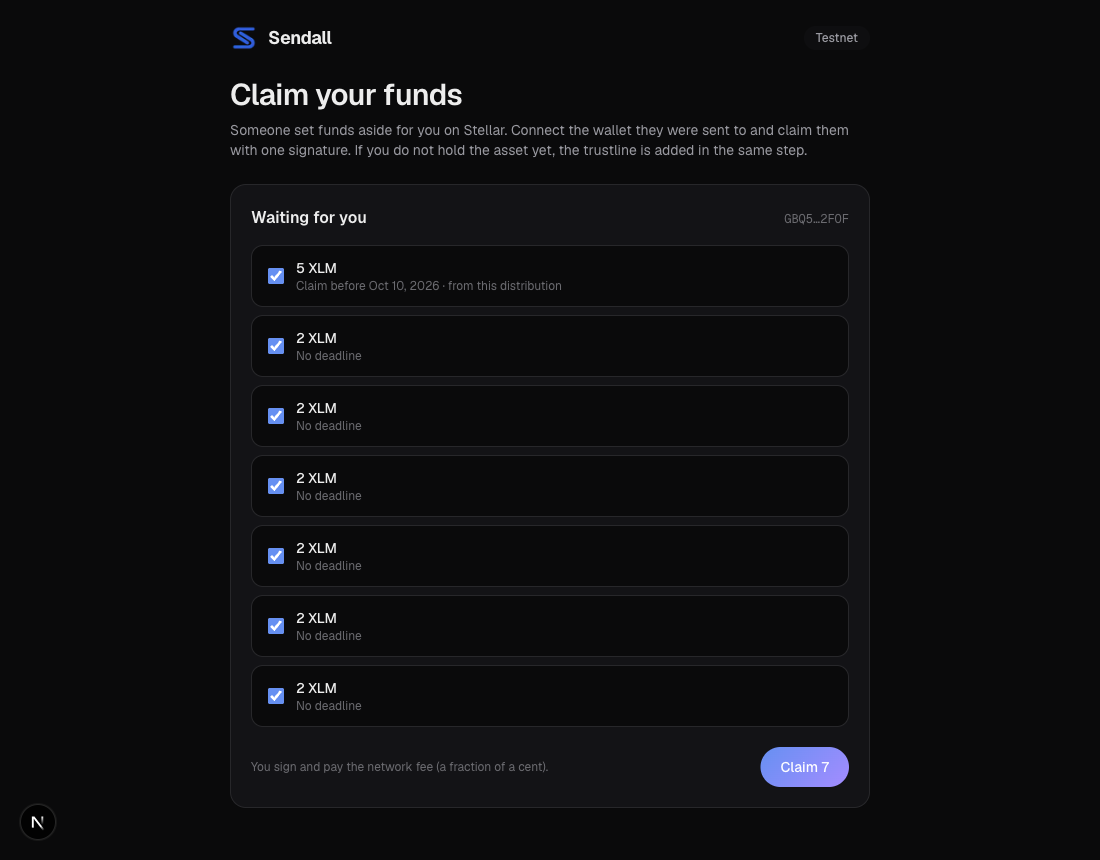
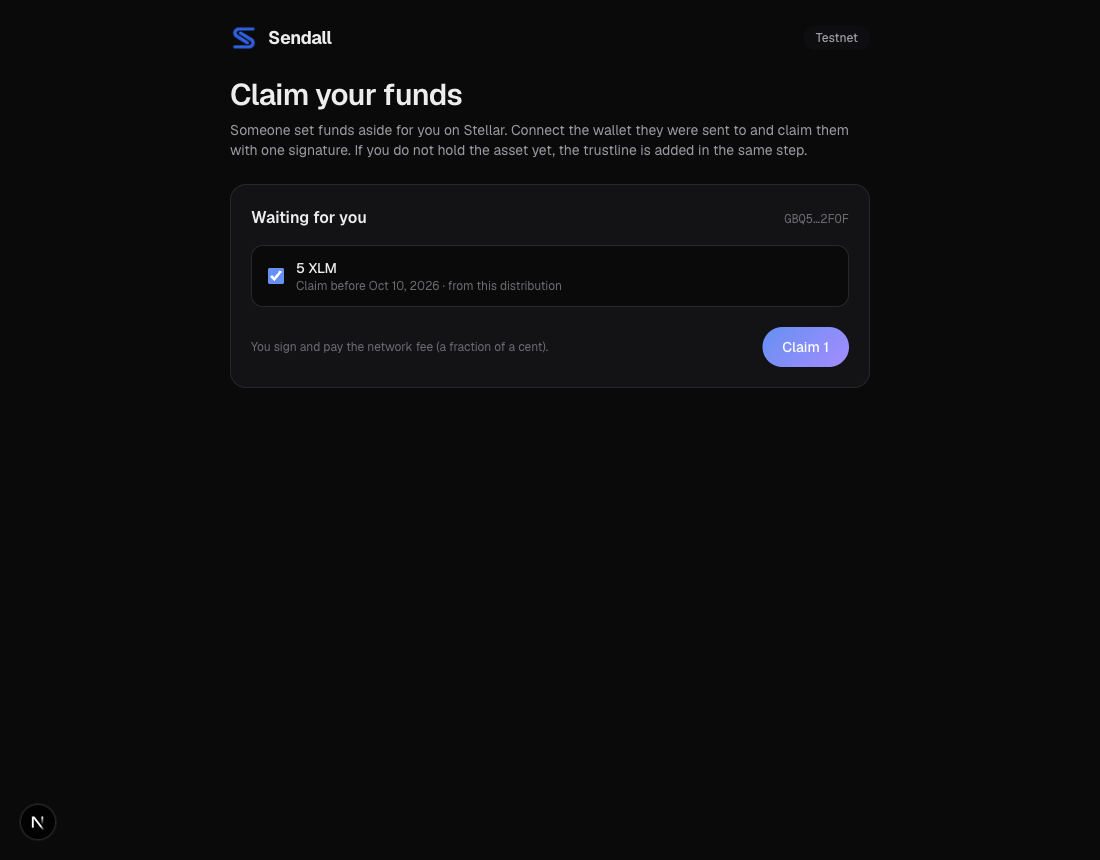
feat: sign for the batch's network and block a wallet on the wrong one
Every signature request now names the network of the batch (or the
claim link) instead of the app default, and before the wallet opens
Sendall asks the wallet which network it is on. If it differs, nothing
is signed and the sender is told to switch, so a Testnet habit cannot
become a Mainnet mistake or the reverse.

Decision: wallets that cannot report their network are not blocked in
the browser; the server already rejects a signature made for another
network because the network passphrase is part of the transaction
hash.

diff --git a/src/app/(app)/batches/[batchId]/page.tsx b/src/app/(app)/batches/[batchId]/page.tsx
@@ -199,7 +199,7 @@ export default function BatchReviewPage() {
   const { batchId } = useParams<{ batchId: string }>();
   const isDemo = useSearchParams().get("demo") === "1";
   const router = useRouter();
-  const { login, signTransaction } = useWallet();
+  const { login, signTransaction, walletNetworkPassphrase } = useWallet();
   const [batch, setBatch] = useState<Batch | null>(null);
   const [bulkBusy, setBulkBusy] = useState<string | null>(null);
   const [busyRowIds, setBusyRowIds] = useState<Set<string>>(new Set());
@@ -621,8 +621,11 @@ export default function BatchReviewPage() {
     }
   }, [batchId, ensureClaimed, router]);
 
+  const batchNetwork = (batch?.network ?? "TESTNET") as "TESTNET" | "PUBLIC";
   const distribution = useDistributionRun({
+    network: batchNetwork,
     signTransaction,
+    walletNetworkPassphrase,
     ensureClaimed,
     onFinished: (run) => {
       void load().then(() => setPinnedStage(null));
@@ -664,7 +667,7 @@ export default function BatchReviewPage() {
         // A payment chunk authorized via the master tx's preAuthTx
         // signers (see txBuilder.ts) needs no wallet signature — submit
         // it exactly as built.
-        const signedXdr = attempt.requiresSignature ? await signTransaction(attempt.xdr) : attempt.xdr;
+        const signedXdr = attempt.requiresSignature ? await signTransaction(attempt.xdr, batchNetwork) : attempt.xdr;
         const submitRes = await fetch(`/api/batches/${batchId}/submit`, {
           method: "POST",
           headers: { "Content-Type": "application/json" },
@@ -681,7 +684,7 @@ export default function BatchReviewPage() {
     } finally {
       setBulkBusy(null);
     }
-  }, [batchId, load, signTransaction, ensureClaimed, distribution]);
+  }, [batchId, load, signTransaction, ensureClaimed, distribution, batchNetwork]);
 
   const retryFailed = useCallback(async () => {
     const lastRun = batch?.runs?.find((r) => r.purpose === "SEND" || r.purpose === "REAUTHORIZE");
@@ -700,7 +703,7 @@ export default function BatchReviewPage() {
         // A payment chunk authorized via the master tx's preAuthTx
         // signers (see txBuilder.ts) needs no wallet signature — submit
         // it exactly as built.
-        const signedXdr = attempt.requiresSignature ? await signTransaction(attempt.xdr) : attempt.xdr;
+        const signedXdr = attempt.requiresSignature ? await signTransaction(attempt.xdr, batchNetwork) : attempt.xdr;
         const submitRes = await fetch(`/api/batches/${batchId}/submit`, {
           method: "POST",
           headers: { "Content-Type": "application/json" },
@@ -717,7 +720,7 @@ export default function BatchReviewPage() {
     } finally {
       setBulkBusy(null);
     }
-  }, [batchId, load, signTransaction, ensureClaimed, batch, distribution]);
+  }, [batchId, load, signTransaction, ensureClaimed, batch, distribution, batchNetwork]);
 
   const refreshableCount = useMemo(() => {
     if (!batch) return 0;

diff --git a/src/components/distribution/useDistributionRun.ts b/src/components/distribution/useDistributionRun.ts
@@ -2,6 +2,8 @@
 
 import { useCallback, useEffect, useRef, useState } from "react";
 import type { RunView } from "@/lib/distribution/batchRuns";
+import type { Network } from "@/generated/prisma/enums";
+import { networkMismatch } from "@/lib/wallet/networkGuard";
 
 // idle -> preparing -> review -> awaiting-signature -> authorizing -> running -> done
 // A wallet rejection goes back to review; anything that stops the flow
@@ -69,12 +71,14 @@ const SETUP_WINDOW_MS = 5 * 60 * 1000;
  * run moving.
  */
 export function useDistributionRun(params: {
-  signTransaction: (xdr: string) => Promise<string>;
+  network: Network;
+  signTransaction: (xdr: string, network?: Network) => Promise<string>;
+  walletNetworkPassphrase: () => Promise<string | null>;
   ensureClaimed: () => Promise<void>;
   onFinished?: (run: RunView) => void;
   onError?: (error: RunRequestError) => void;
 }) {
-  const { signTransaction, ensureClaimed, onFinished, onError } = params;
+  const { network, signTransaction, walletNetworkPassphrase, ensureClaimed, onFinished, onError } = params;
   const [phase, setPhase] = useState<RunPhase>("idle");
   const [run, setRun] = useState<RunView | null>(null);
   const [review, setReview] = useState<ReviewInfo | null>(null);
@@ -155,10 +159,18 @@ export function useDistributionRun(params: {
   const approve = useCallback(async () => {
     if (!review) return;
     setError(null);
+    // Never ask a wallet on the wrong network to sign: a Testnet habit
+    // must not turn into a Mainnet mistake, or the other way round.
+    const mismatch = networkMismatch(network, await walletNetworkPassphrase());
+    if (mismatch) {
+      setError(new RunRequestError(mismatch, "WALLET_NETWORK_MISMATCH"));
+      setPhase("review");
+      return;
+    }
     setPhase("awaiting-signature");
     let signed: string;
     try {
-      signed = await signTransaction(review.setupXdr);
+      signed = await signTransaction(review.setupXdr, network);
     } catch {
       const e = new RunRequestError("The wallet did not approve. Nothing was sent; you can approve again or cancel.", "WALLET_REJECTED");
       setError(e);
@@ -173,7 +185,7 @@ export function useDistributionRun(params: {
     } catch (err) {
       fail(err);
     }
-  }, [review, signTransaction, fail]);
+  }, [review, signTransaction, walletNetworkPassphrase, network, fail]);
 
   /** Backs out at the review step; the rows become ready again. */
   const cancel = useCallback(async () => {

diff --git a/src/components/wallet/WalletProvider.tsx b/src/components/wallet/WalletProvider.tsx
@@ -15,7 +15,10 @@ type WalletContextValue = {
   // alone just reads the wallet's address and does not authenticate.
   login: () => Promise<string>;
   disconnect: () => Promise<void>;
-  signTransaction: (xdr: string) => Promise<string>;
+  // Signs for `network` when given (the batch's), else the app default.
+  signTransaction: (xdr: string, network?: Network) => Promise<string>;
+  // The passphrase the wallet itself is on, or null if it cannot say.
+  walletNetworkPassphrase: () => Promise<string | null>;
   signMessage: (message: string) => Promise<string>;
 };
 
@@ -110,17 +113,26 @@ export function WalletProvider({ children }: { children: React.ReactNode }) {
   }, [updateAddress]);
 
   const signTransaction = useCallback(
-    async (xdr: string) => {
+    async (xdr: string, forNetwork?: Network) => {
       const currentAddress = addressRef.current;
       if (!currentAddress) throw new Error("No wallet connected");
       const { signedTxXdr } = await StellarWalletsKit.signTransaction(xdr, {
         address: currentAddress,
-        networkPassphrase: networkToKitNetwork(network),
+        networkPassphrase: networkToKitNetwork(forNetwork ?? network),
       });
       return signedTxXdr;
     },
     [network]
   );
+
+  const walletNetworkPassphrase = useCallback(async () => {
+    try {
+      const { networkPassphrase } = await StellarWalletsKit.getNetwork();
+      return networkPassphrase || null;
+    } catch {
+      return null; // not every wallet reports its network
+    }
+  }, []);
 
   const signMessage = useCallback(
     async (message: string) => {
@@ -145,9 +157,10 @@ export function WalletProvider({ children }: { children: React.ReactNode }) {
       login,
       disconnect,
       signTransaction,
+      walletNetworkPassphrase,
       signMessage,
     }),
-    [network, address, connecting, connect, login, disconnect, signTransaction, signMessage]
+    [network, address, connecting, connect, login, disconnect, signTransaction, walletNetworkPassphrase, signMessage]
   );
 
   return <WalletContext.Provider value={value}>{children}</WalletContext.Provider>;

diff --git a/src/components/claim/ClaimClient.tsx b/src/components/claim/ClaimClient.tsx
@@ -5,6 +5,7 @@ import { toast } from "sonner";
 import { BrandLogo } from "@/components/brand/BrandLogo";
 import { useWallet } from "@/components/wallet/WalletProvider";
 import { explorerTxUrl } from "@/lib/stellar/explorer";
+import { networkMismatch } from "@/lib/wallet/networkGuard";
 
 type Item = {
   id: string;
@@ -27,7 +28,7 @@ function trim(amount: string) {
 }
 
 export function ClaimClient({ network, batchId }: { network: "TESTNET" | "PUBLIC"; batchId?: string }) {
-  const { address, connect, connecting, setNetwork, signTransaction } = useWallet();
+  const { address, connect, connecting, setNetwork, signTransaction, walletNetworkPassphrase } = useWallet();
   const [list, setList] = useState<List | null>(null);
   const [loading, setLoading] = useState(false);
   const [selected, setSelected] = useState<Set<string>>(new Set());
@@ -74,7 +75,9 @@ export function ClaimClient({ network, batchId }: { network: "TESTNET" | "PUBLIC
       });
       const built = await build.json();
       if (!build.ok) throw new Error(built.error ?? "Could not prepare the claim");
-      const signedXdr = await signTransaction(built.xdr);
+      const mismatch = networkMismatch(network, await walletNetworkPassphrase());
+      if (mismatch) throw new Error(mismatch);
+      const signedXdr = await signTransaction(built.xdr, network);
       const submit = await fetch("/api/claim/submit", {
         method: "POST",
         headers: { "Content-Type": "application/json" },
@@ -90,7 +93,7 @@ export function ClaimClient({ network, batchId }: { network: "TESTNET" | "PUBLIC
     } finally {
       setClaiming(false);
     }
-  }, [address, network, selected, signTransaction, load]);
+  }, [address, network, selected, signTransaction, walletNetworkPassphrase, load]);
 
   const items = list?.items ?? [];
   const chosen = items.filter((i) => selected.has(i.id));

diff --git a/src/lib/wallet/networkGuard.ts b/src/lib/wallet/networkGuard.ts
@@ -1,0 +1,26 @@
+import { Networks } from "@stellar/stellar-sdk";
+import type { Network } from "@/generated/prisma/enums";
+
+/** Which Sendall network a wallet's passphrase belongs to; null for anything else (futurenet, custom). */
+export function networkFromPassphrase(passphrase: string | null | undefined): Network | null {
+  if (passphrase === Networks.PUBLIC) return "PUBLIC";
+  if (passphrase === Networks.TESTNET) return "TESTNET";
+  return null;
+}
+
+const LABEL: Record<Network, string> = { PUBLIC: "Mainnet", TESTNET: "Testnet" };
+
+/**
+ * The message to show when the wallet is on a different network than the
+ * batch, or null when it is safe to sign. An unknown wallet network
+ * (wallets that cannot report it) is not blocked here: the server
+ * rejects a signature made for the wrong network anyway, because the
+ * network is part of the transaction hash.
+ */
+export function networkMismatch(expected: Network, walletPassphrase: string | null | undefined): string | null {
+  if (!walletPassphrase) return null;
+  const wallet = networkFromPassphrase(walletPassphrase);
+  if (wallet === expected) return null;
+  const where = wallet ? LABEL[wallet] : "another network";
+  return `Your wallet is set to ${where}, but this distribution is on ${LABEL[expected]}. Switch the wallet to ${LABEL[expected]} and approve again.`;
+}

diff --git a/src/lib/wallet/networkGuard.test.ts b/src/lib/wallet/networkGuard.test.ts
@@ -1,0 +1,23 @@
+import { describe, expect, it } from "vitest";
+import { Networks } from "@stellar/stellar-sdk";
+import { networkFromPassphrase, networkMismatch } from "./networkGuard";
+
+describe("wallet network guard", () => {
+  it("maps passphrases", () => {
+    expect(networkFromPassphrase(Networks.PUBLIC)).toBe("PUBLIC");
+    expect(networkFromPassphrase(Networks.TESTNET)).toBe("TESTNET");
+    expect(networkFromPassphrase(Networks.FUTURENET)).toBeNull();
+  });
+
+  it("blocks a mismatch in either direction", () => {
+    expect(networkMismatch("PUBLIC", Networks.TESTNET)).toMatch(/set to Testnet, but this distribution is on Mainnet/);
+    expect(networkMismatch("TESTNET", Networks.PUBLIC)).toMatch(/set to Mainnet, but this distribution is on Testnet/);
+    expect(networkMismatch("PUBLIC", Networks.FUTURENET)).toMatch(/another network/);
+  });
+
+  it("lets a matching or unreported wallet network through", () => {
+    expect(networkMismatch("PUBLIC", Networks.PUBLIC)).toBeNull();
+    expect(networkMismatch("TESTNET", Networks.TESTNET)).toBeNull();
+    expect(networkMismatch("TESTNET", null)).toBeNull();
+  });
+});

diff --git a/docs/epics.md b/docs/epics.md
@@ -171,7 +171,7 @@ Environment:
 
 ## E5 Mainnet
 
-- [ ] **T5.1** Build and sign every tx with `batch.network`. Detect the wallet's network and block sending on a mismatch.
+- [x] **T5.1** Build and sign every tx with `batch.network`. Detect the wallet's network and block sending on a mismatch.
 - [ ] **T5.2** Mainnet confirmation gate (summary plus type-to-confirm), a clear Mainnet badge, and demo and friendbot disabled on `PUBLIC`.
 - [ ] **T5.3** Per-network service config and fee strategy (fee stats with a cap). Refuse a run when M cannot cover it. The Mainnet RPC comes from env.
 - [ ] **T5.4** Mainnet runbook at `../developer-docs/mainnet-runbook.md`. It lives outside the repo and is not committed: funding M and the channels, env on the host, the first real distribution step by step.
@@ -226,3 +226,4 @@ Environment:
 - 2026-10-03 T3.8 done. Unit coverage for predicates (`buildChunks.test`, `claimPage.test`) and reserve (`reserve.test`) was already in place. New `scenarios/claimableLifecycle.ts`: issuer, sender holding the asset, 3 recipients without the trustline (A claims via the public flow with trustline in the same tx, B never claims, C has no account), then a short window and the sender reclaims B and C with one signature. Its integration test checks CLAIMED/RECLAIMED/RECLAIMED, A holds 50, sender 950, sender `num_sponsoring` 0. `scripts/evidence-claimable.ts` runs it and writes `docs/evidence-testnet.md` (setup, create, claim, reclaim-setup, reclaim hashes, per-recipient balance ids and outcomes). Hashes checked on Horizon: setup fee paid by sponsor `GDJDV3…`, claim from recipient A, reclaim chunk fee-bumped by the sponsor from a channel. vitest 163/163, lint, tsc clean.
 - 2026-10-03 T4.1 done: `@react-pdf/renderer` 4.9 (already in Next's serverExternalPackages, no config needed). `receiptData.ts` covers channel and legacy rows: method, status (claim status for claimable balances), tx hash, totals and authorization txs. `ReceiptDocument.tsx` is an invoice layout with a repeated table header, page numbers and explorer links. Route `GET /api/batches/[id]/receipt` returns 409 before the batch is sent, 404 without access, and a PDF attachment otherwise; checked on the live Next 16 dev server. Fix: react-pdf hyphenated Stellar addresses ("…WKM-") and printed wrong values, so hyphenation is disabled and the columns resized; all 150 addresses now extract intact. Testnet test: 150-row run gives a 4-page PDF. Preview `docs/screenshots/sow2/receipt-page1.png`. vitest 164/164, lint, tsc clean.
 - 2026-10-03 T4.2 done: "Download receipt (PDF)" link on the Send stage for COMPLETED and PARTIAL_FAILURE batches. Tests: 1,000-row render gives a valid PDF (`%PDF-` / `%%EOF`, more than 20 pages) and 5 rows fit on one page; the E2E claimable send downloads the receipt from the UI (`sendall-receipt-SND-XXXXXXXX.pdf`), saved as `docs/screenshots/sow2/receipt-claimable-sample.pdf` with page preview `receipt-claimable-page1.png` (claim deadline, "Set aside, unclaimed", tx links). vitest 166/166, lint, tsc clean.
+- 2026-10-03 T5.1 done: `signTransaction(xdr, network)` signs for the batch's network: the channel-engine hook, the legacy path and the claim page all pass it. New `walletNetworkPassphrase()` from the kit's `getNetwork`. `networkGuard.ts`: `networkMismatch(expected, walletPassphrase)` blocks signing when the wallet is on another network, with a clear message (review step stays open; claim page shows the error). Decision: a wallet that cannot report its network is not blocked client-side, because the server already rejects a signature for the wrong network (the network is part of the hash, so it fails as SETUP_MISMATCH). Tests: 3 unit; E2E regression `anon-batch-flow` and `claim-page` pass with Freighter on Testnet. vitest 169/169, lint, tsc clean.
